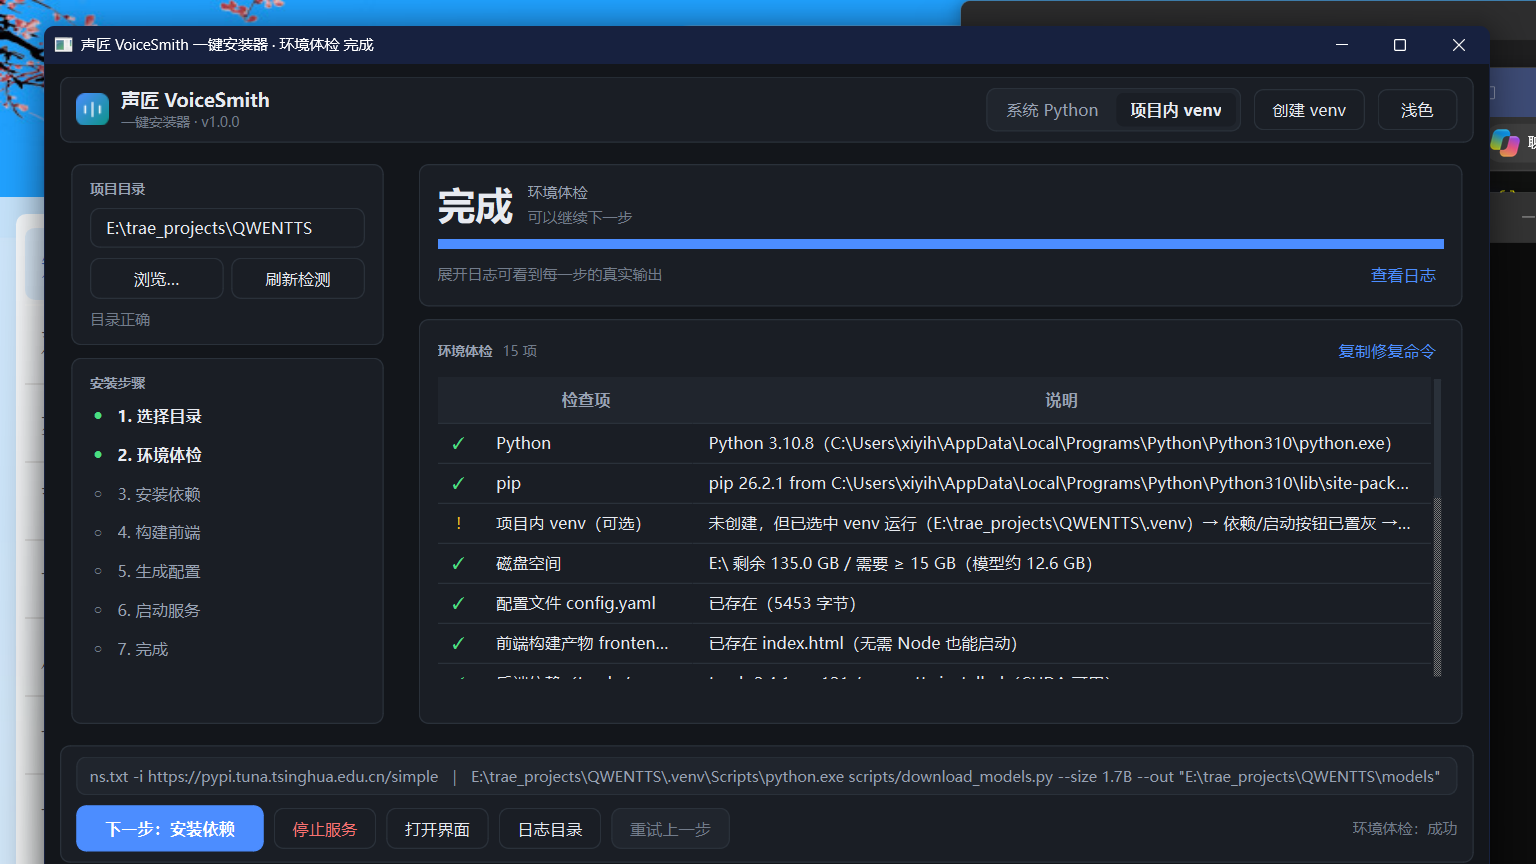
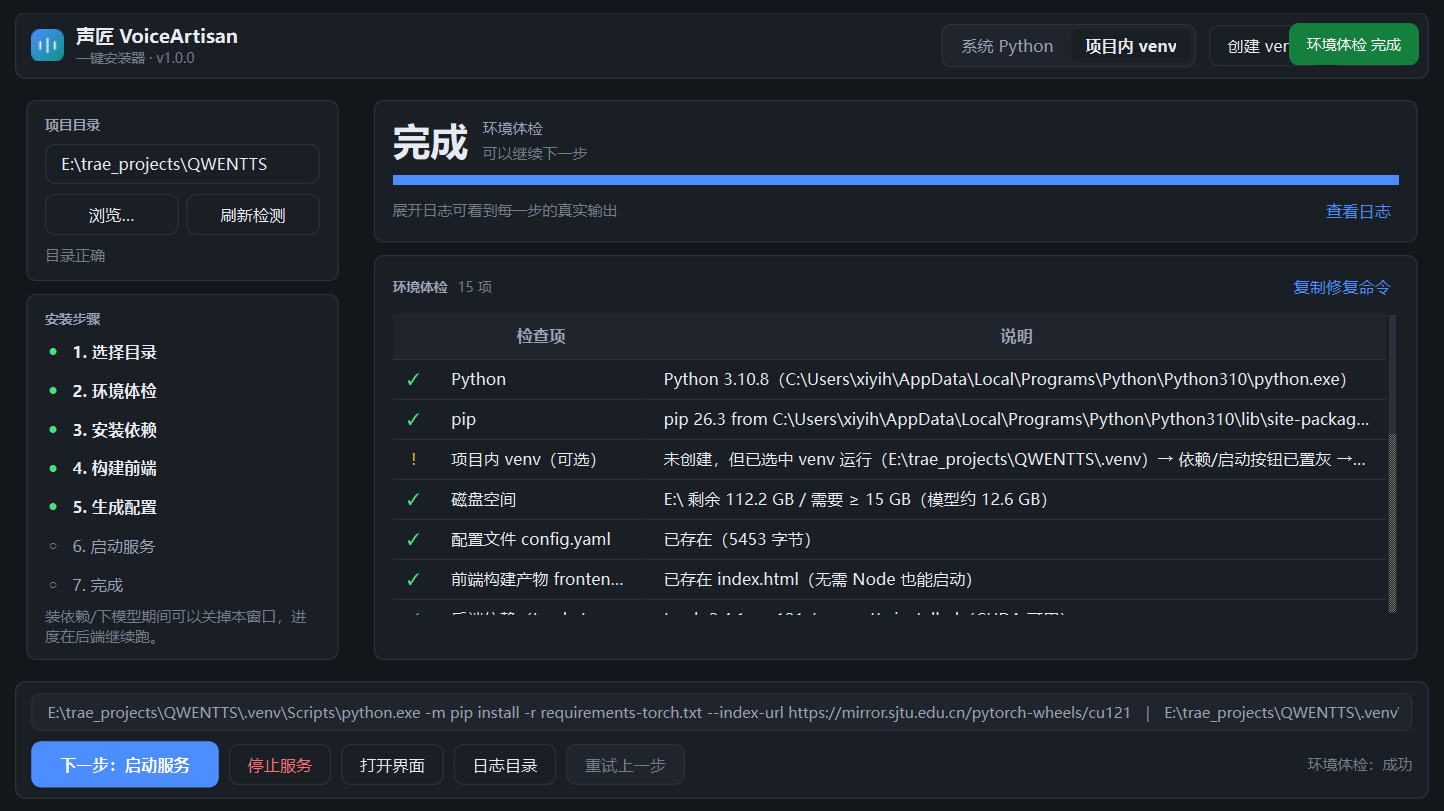
docs(brand): 总览图与启动器截图改为 VoiceArtisan；修正总览图脚本输出目录；v1.1.64 发布说明

diff --git a/docs/overview/src/shoot.py b/docs/overview/src/shoot.py
@@ -3,7 +3,7 @@ from playwright.sync_api import sync_playwright
 
 ROOT = pathlib.Path(__file__).resolve().parent
 HTML = (ROOT / "poster.html").as_uri()
-OUT = pathlib.Path(r"<项目根目录>\docs\overview")
+OUT = ROOT.parent          # docs/overview（脚本在 docs/overview/src 下）
 OUT.mkdir(parents=True, exist_ok=True)
 
 names = {1: "01-overview", 2: "02-workbench-voices", 3: "03-tasks",
